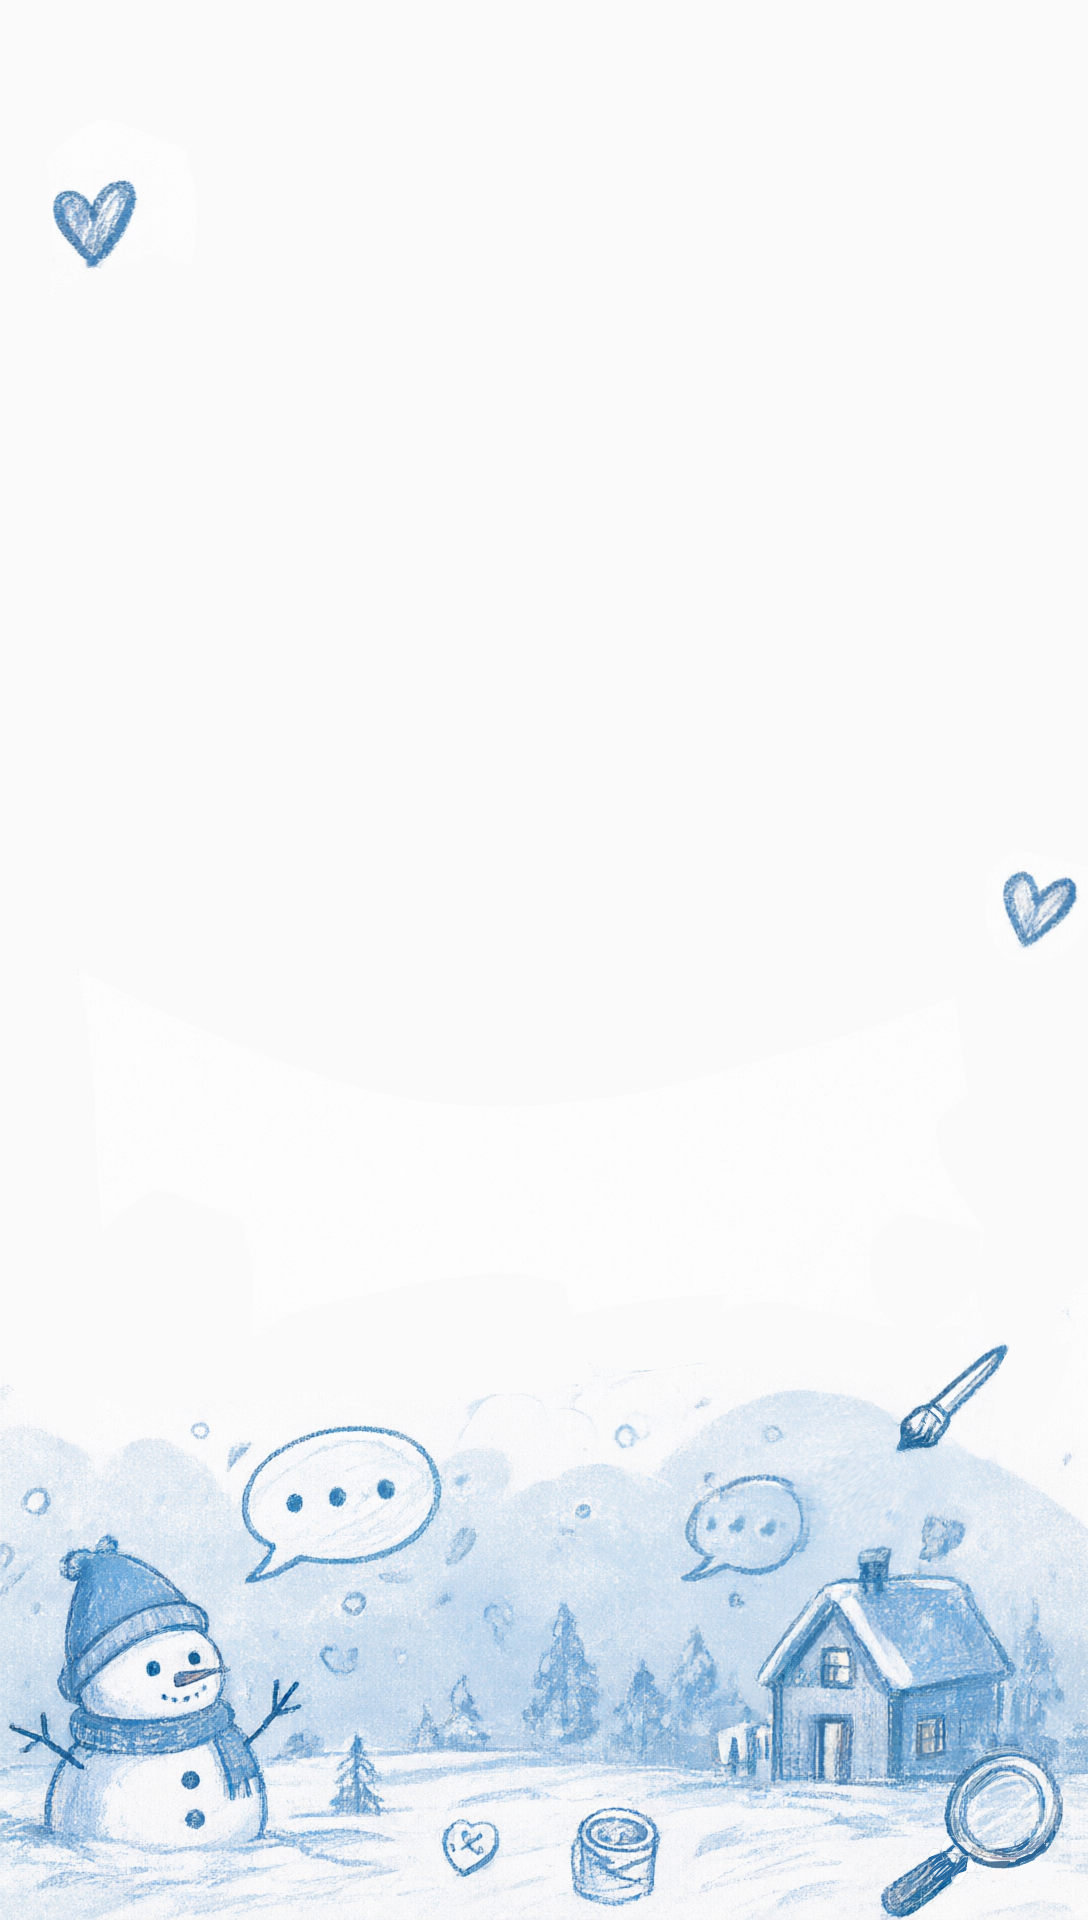
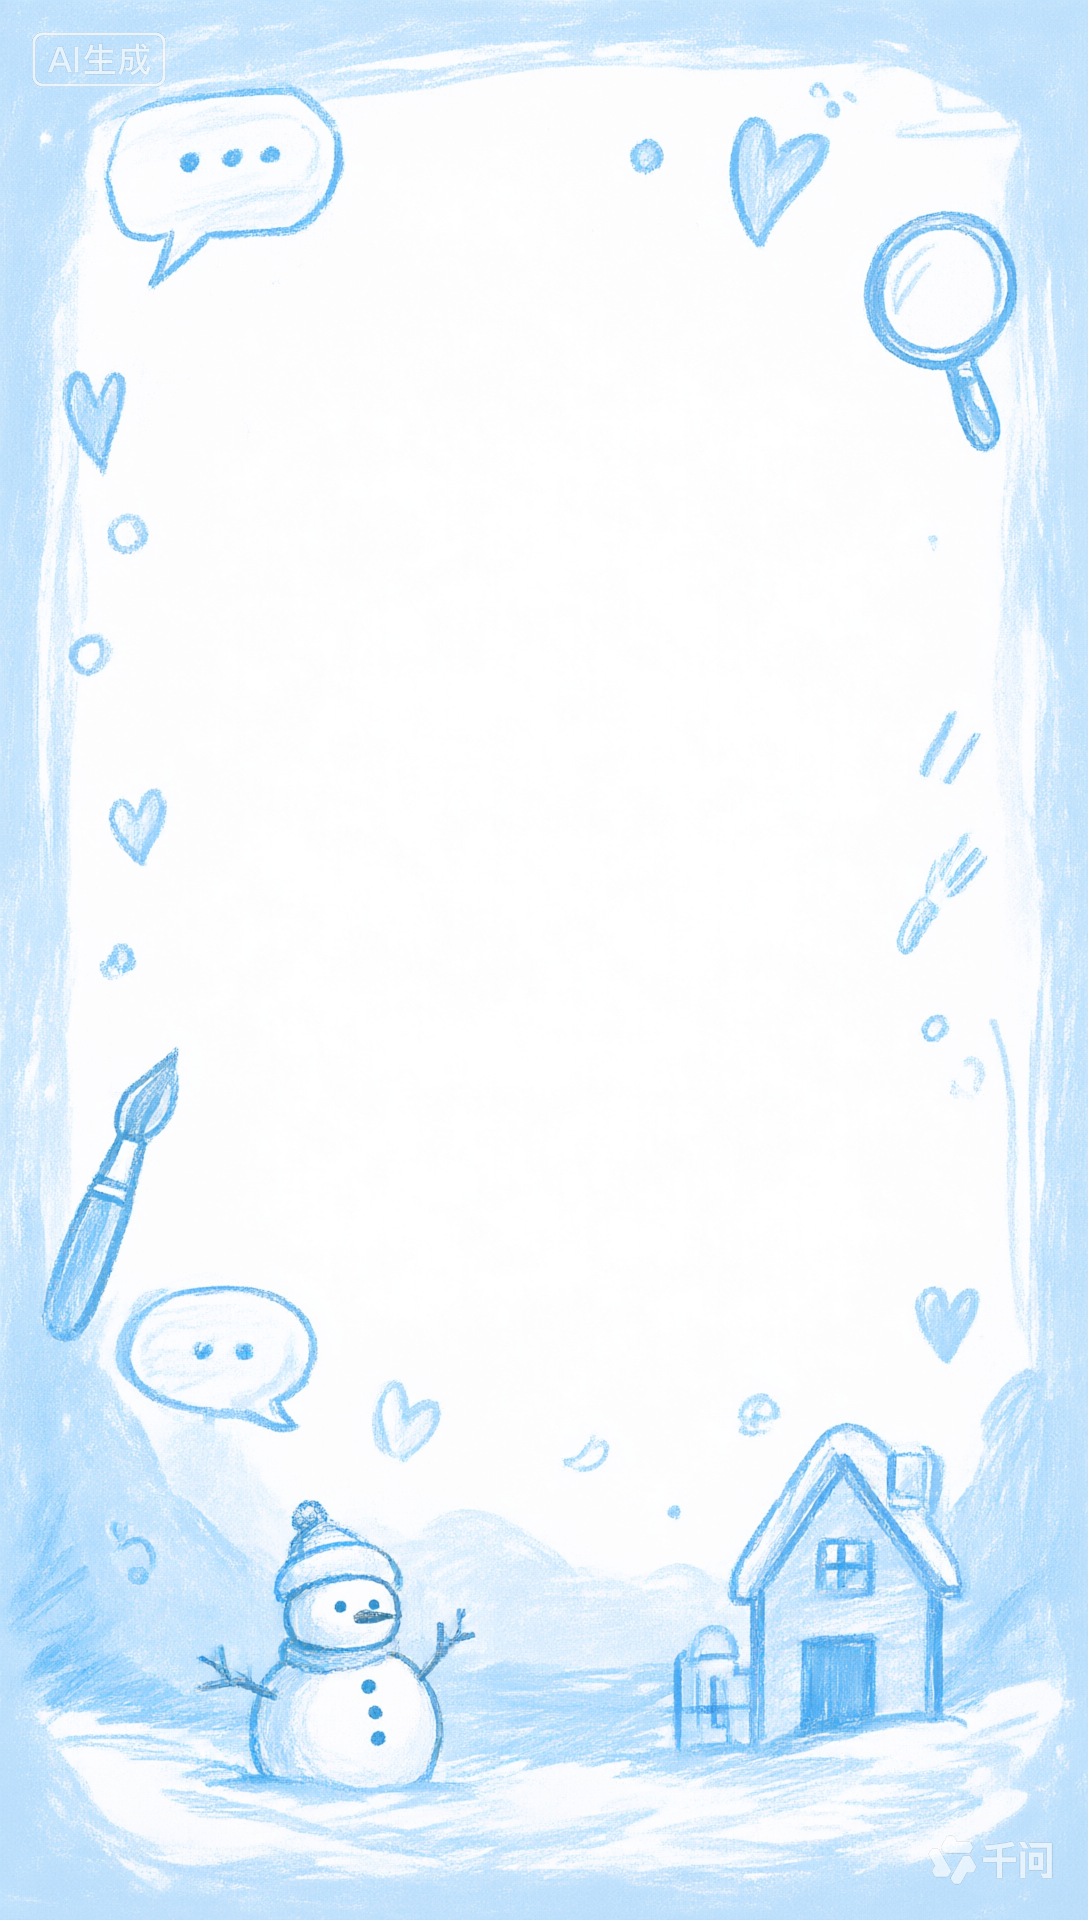
chore: fail verify when the uc-command bundle is older than its sources
上次「规则改了但线上没变」就是打包产物过期导致的，靠人记不住。
新增 check:bundle（已接进 verify 的第二个阶段）：引擎、词库、handler 任一文件比
supabase/functions/uc-command/index.ts 新就报红并提示重新打包。

同时把 pages-draw 与 pages-bank 里写死的颜色换成设计 token（品牌色/浅底/文字/分割线）。

diff --git a/app/src/pages-draw/play.vue b/app/src/pages-draw/play.vue
@@ -436,7 +436,7 @@ function back() {
   margin-bottom: 14rpx;
   padding: 20rpx 26rpx 24rpx;
   border-radius: 20rpx;
-  background: #fff;
+  background: var(--surface, #ffffff);
   box-shadow: 0 6rpx 18rpx rgba(31, 35, 48, 0.06);
   text-align: center;
 }
@@ -479,7 +479,7 @@ function back() {
   display: block;
   height: 34rpx;
   line-height: 34rpx;
-  color: #8a8f9c;
+  color: var(--muted, #6c7588);
   font-size: 24rpx;
 }
 
@@ -496,7 +496,7 @@ function back() {
   padding: 18rpx 44rpx;
   border: 2rpx solid #ffe08a;
   border-radius: 18rpx;
-  background: #fff7d6;
+  background: var(--surface, #ffffff)7d6;
   box-shadow: 0 6rpx 16rpx rgba(255, 200, 60, 0.18);
 }
 .hint-box-text {
@@ -518,7 +518,7 @@ function back() {
   padding: 8rpx 16rpx;
 }
 .chat-who {
-  color: #8a8f9c;
+  color: var(--muted, #6c7588);
   font-size: 22rpx;
 }
 .chat-id {
@@ -585,7 +585,7 @@ function back() {
   width: 100%;
   height: 75vw;
   border-radius: 16rpx;
-  background: #fff;
+  background: var(--surface, #ffffff);
   box-shadow: 0 6rpx 18rpx rgba(31, 35, 48, 0.06);
 }
 .board-freeze-img {
@@ -614,7 +614,7 @@ function back() {
   max-height: 82vh;
   padding: 24rpx;
   border-radius: 20rpx;
-  background: #fff;
+  background: var(--surface, #ffffff);
   box-sizing: border-box;
 }
 .modal-head {
@@ -629,7 +629,7 @@ function back() {
   color: #1f2330;
 }
 .modal-left {
-  color: #8a8f9c;
+  color: var(--muted, #6c7588);
   font-size: 24rpx;
 }
 .modal-body {

diff --git a/app/src/pages-draw/live.vue b/app/src/pages-draw/live.vue
@@ -499,7 +499,7 @@ async function endSession() {
   margin-bottom: 20rpx;
   padding: 24rpx;
   border-radius: var(--radius-md);
-  background: #fff;
+  background: var(--surface, #ffffff);
 }
 .label {
   display: block;
@@ -517,7 +517,7 @@ async function endSession() {
 .primary {
   margin-top: 16rpx;
   border-radius: 14rpx;
-  color: #fff;
+  color: var(--surface, #ffffff);
   background: var(--brand);
   font-size: 28rpx;
 }
@@ -624,7 +624,7 @@ async function endSession() {
 .podium-item.place-1 {
   order: 2;
   padding-top: 24rpx;
-  background: linear-gradient(180deg, #fff7e0, #ffe9b8);
+  background: linear-gradient(180deg, var(--surface, #ffffff)7e0, #ffe9b8);
 }
 .podium-item.place-2 {
   order: 1;

diff --git a/app/src/pages-draw/setup.vue b/app/src/pages-draw/setup.vue
@@ -111,7 +111,7 @@ async function start() {
 .choice-desc {
   display: block;
   margin-top: 6rpx;
-  color: #8a8f9c;
+  color: var(--muted, #6c7588);
   font-size: 22rpx;
 }
 .count {
